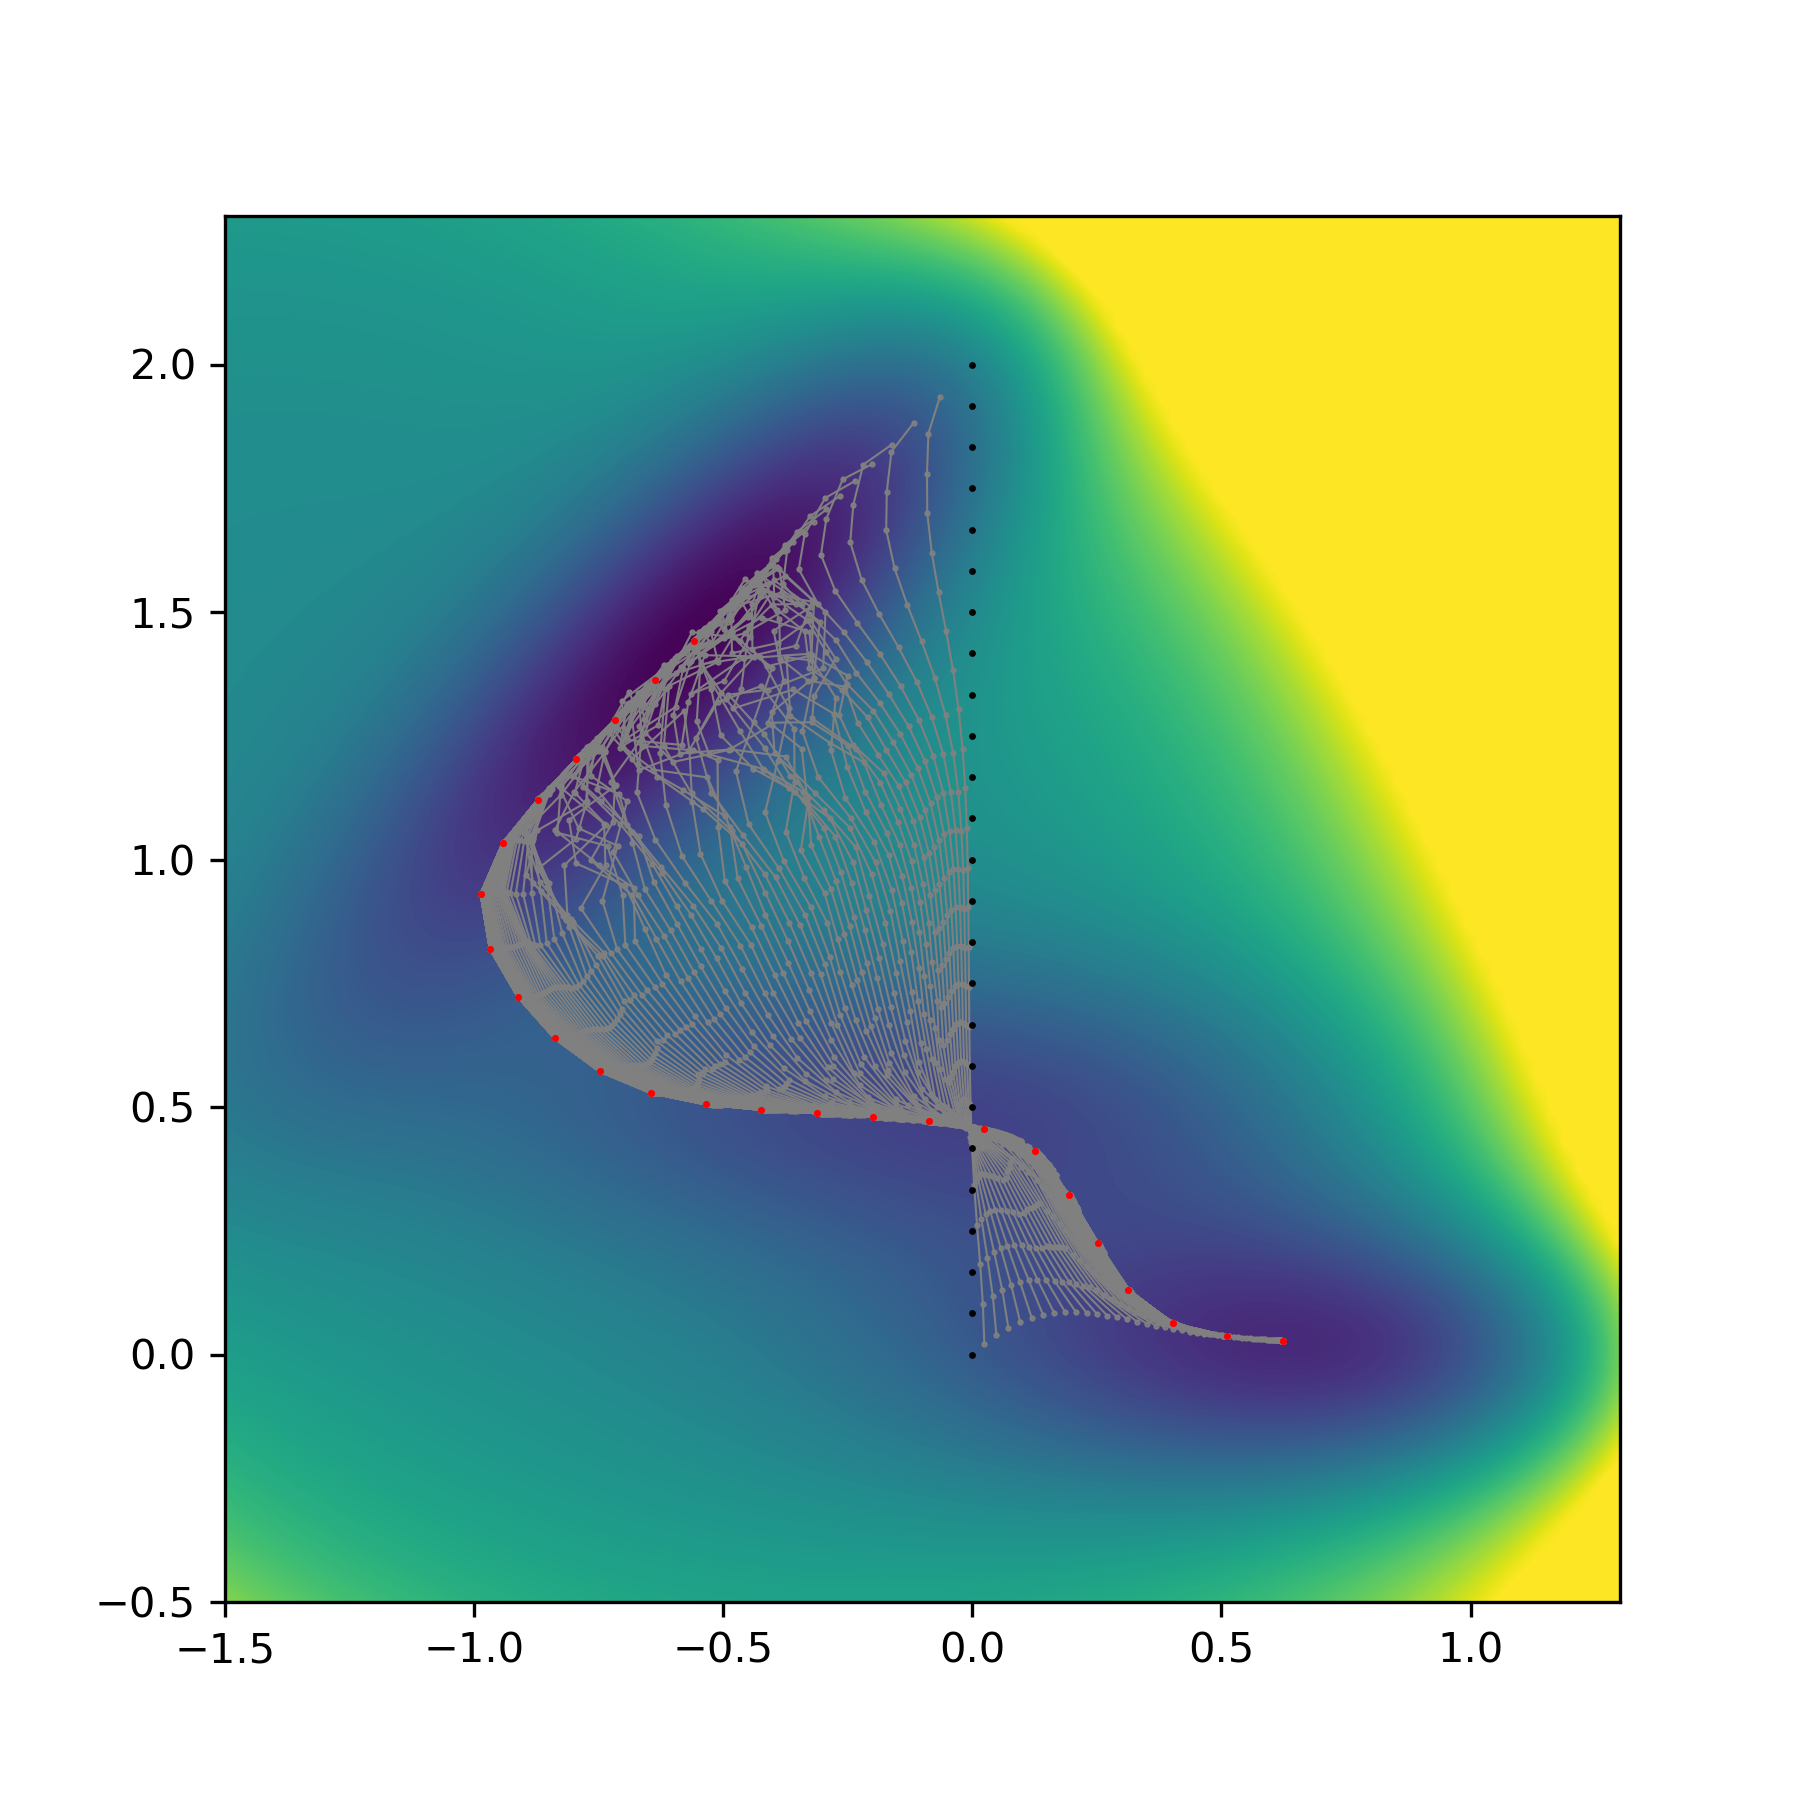
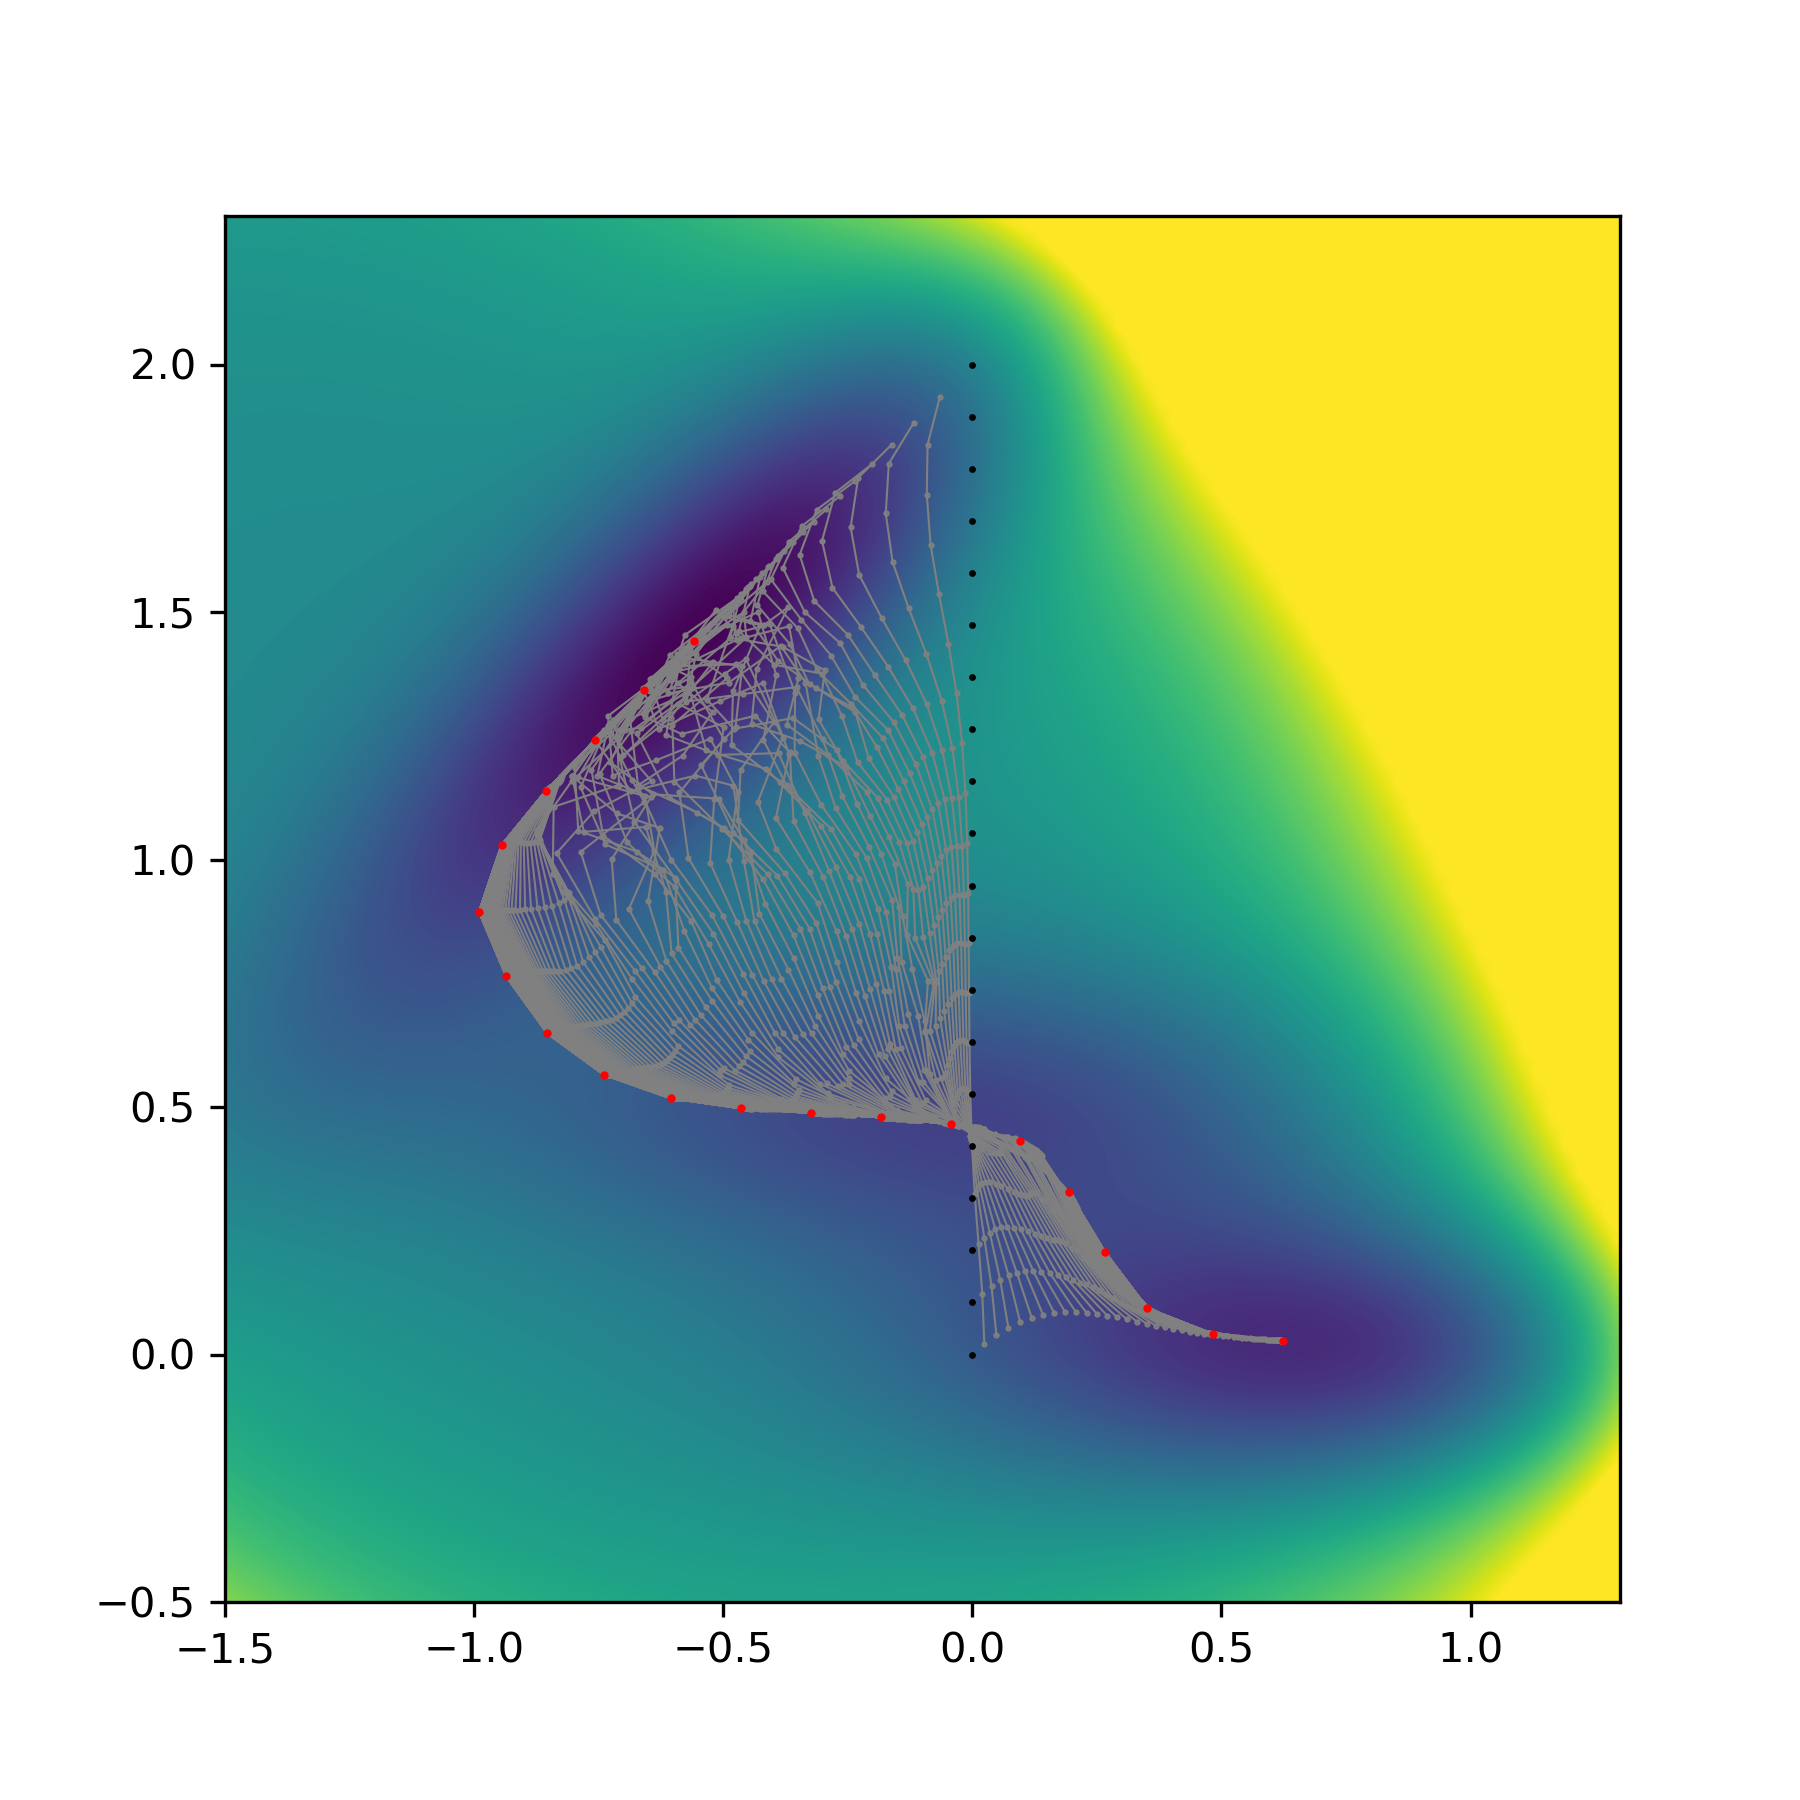
update.

Changed region(s): [[0.28, 0.28, 0.5289, 0.6222], [0.5289, 0.6222, 0.6222, 0.7156], [0.4667, 0.2489, 0.4978, 0.28]]

diff --git a/test_stringm_muller_sd_cspline.py b/test_stringm_muller_sd_cspline.py
@@ -11,7 +11,7 @@ import numpy
 import matplotlib.pyplot as plt
 
 # Define the initial chain-of-states.
-nrep = 25
+nrep = 20
 replicas = numpy.zeros((nrep, 2))
 replicas[:, 0] = 0
 replicas[:, 1] = numpy.linspace(0, 2, num=nrep)
@@ -41,6 +41,6 @@ for _ in range(niter):
     ax.plot(cos_stringm.chain.cartersian_coors[:, 0], cos_stringm.chain.cartersian_coors[:, 1], 'o-', lw=0.5, markersize=0.5, c='grey' )
 
 cos_stringm._reparametrize()
-ax.scatter(cos_stringm.chain.cartersian_coors[:, 0], cos_stringm.chain.cartersian_coors[:, 1], s=0.5, c='r', zorder=5)
+ax.scatter(cos_stringm.chain.cartersian_coors[:, 0], cos_stringm.chain.cartersian_coors[:, 1], s=1, c='r', zorder=5)
 
 plt.savefig('test_stringm_muller_sd.png')

diff --git a/test_hpm_muller_sd.py b/test_hpm_muller_sd.py
@@ -40,6 +40,6 @@ for _ in range(niter):
     ax.plot(cos_hpm.chain.cartersian_coors[:, 0], cos_hpm.chain.cartersian_coors[:, 1], 'o-', lw=0.5, markersize=0.5, c='grey' )
 
 
-ax.scatter(cos_hpm.chain.cartersian_coors[:, 0], cos_hpm.chain.cartersian_coors[:, 1], s=0.5, c='r', zorder=5)
+ax.scatter(cos_hpm.chain.cartersian_coors[:, 0], cos_hpm.chain.cartersian_coors[:, 1], s=1, c='r', zorder=5)
 
 plt.savefig('test_hpm_muller_sd.png')
